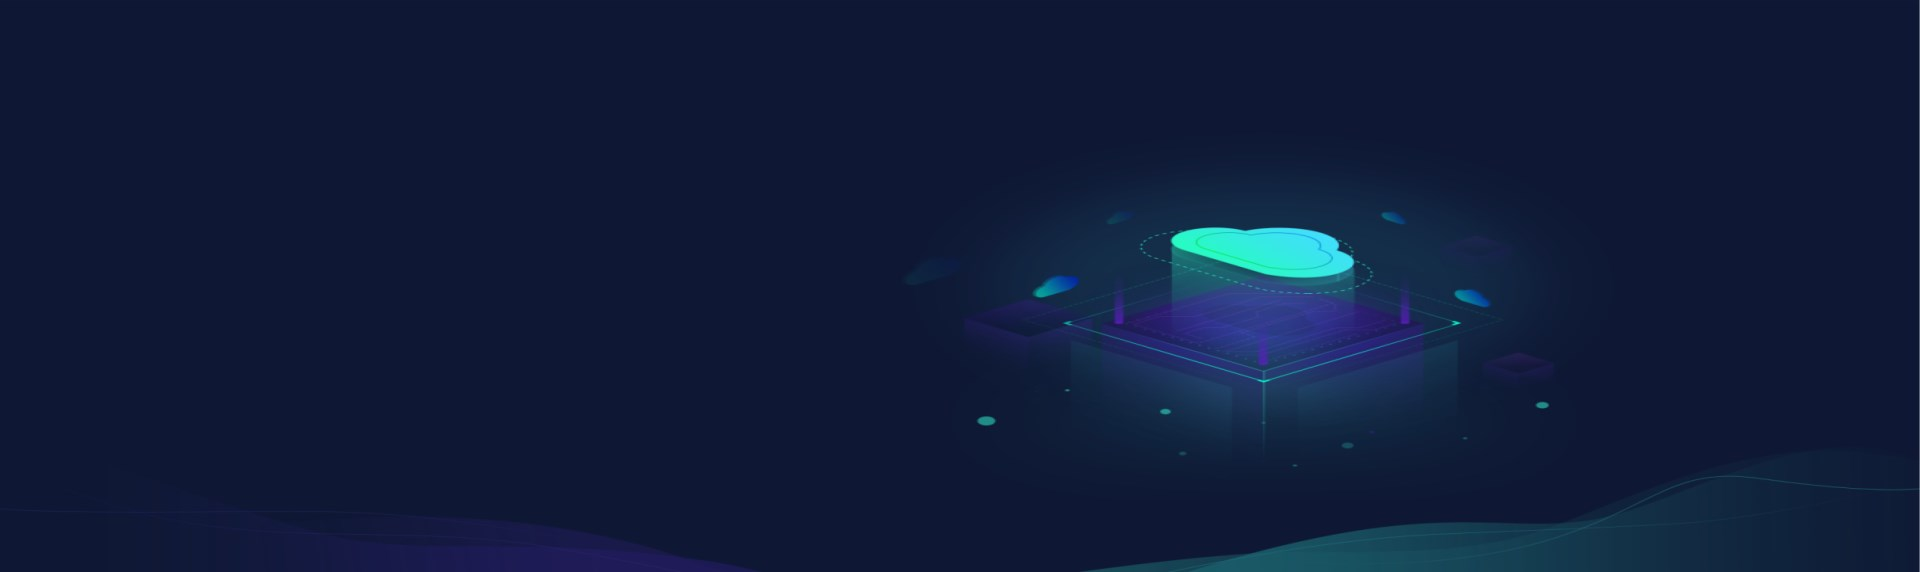
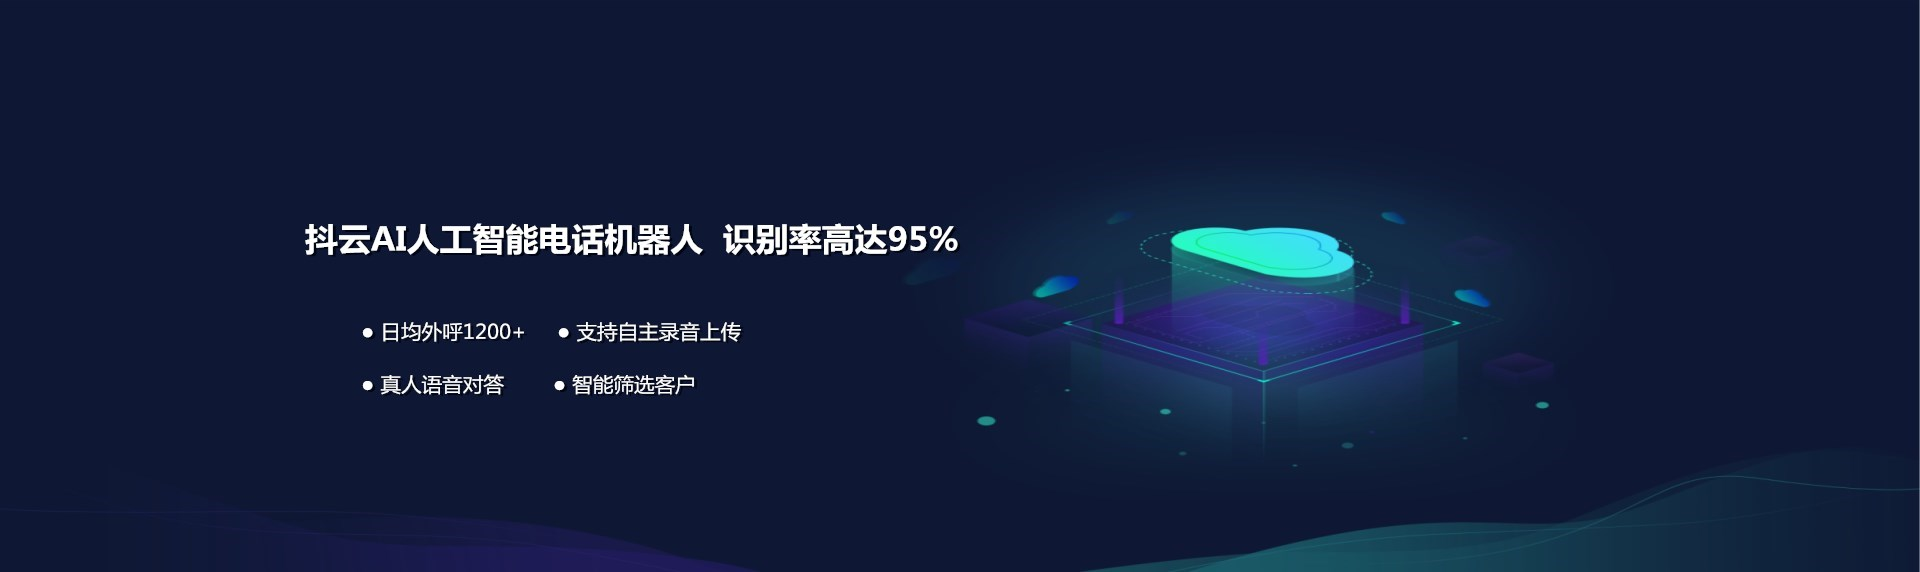
bug fix

Changed region(s): [[0.1562, 0.3864, 0.5, 0.4458], [0.1875, 0.6538, 0.375, 0.7133], [0.1875, 0.5647, 0.4062, 0.5944]]

diff --git a/application/index/view/index/index.html b/application/index/view/index/index.html
@@ -23,16 +23,13 @@
         <div class="banner-text" style="display: block;">
             <div class="slider-text" data-start_top="30" data-to_top="0" data-start_left="0" data-to_left="0"
                  style="display: block; opacity: 1; top: 0px; left: 0px;margin-left:300px;">
-                <p class="banner-text1">精准锁定大量意向客户</p>
-                <p class=" banner-text1">助力企业业绩腾飞</p>
-                <p class=" banner-text2">抖云电话机器人 识别率高达95%</p>
-                <!--<a class="banner-link-button" href="http://www.17sucai.com/preview/1160620/2018-06-11/banner/index.html#">参与公测</a>-->
+
             </div>
         </div>
         <div class="banner-text" style="display: none;">
             <div class="slider-text" data-start_top="30" data-to_top="0" data-start_left="0" data-to_left="0"
                  style="display: block; opacity: 1; top: 0px; left: 0px;">
-                <p class="banner-text1" style="margin:0 auto;">抖云科技</p>
+
             </div>
         </div>
         <div class="banner-text" style="display: none;">
@@ -188,7 +185,7 @@
 </div>
 <div class="speech">
 
-    <div id="js_speechForm" class="speech__sms">
+    <div id="js_speechForm" class="speech__sms" style="width: 80%; margin: 0 auto;">
         <p class="speech__desc">免费体验智能电话</p>
         <div style="margin:0 auto;width:300px;margin-bottom: 50px;">
             <div style="width:50px;height:1px;background-color: white;float: left;margin-top: 13px;"></div>

diff --git a/application/index/view/index/product.html b/application/index/view/index/product.html
@@ -1,11 +1,11 @@
 
 
 <div class="banner">
-    <div class="banner-content customer-case-icon animated slideInDown" style="text-align: left;padding-top: 1px;margin-left:300px">
-        <h3 style="color: #fff; margin-top: 230px; font-size: 40px; letter-spacing: 8px;">精准锁定大量意向客户</h3>
-        <h3 style="color: #fff; margin-top: 30px; font-size: 30px; letter-spacing: 8px;">助力企业业绩腾飞</h3>
-        <h3 style="color: #fff; margin-top: 20px; font-size: 20px; letter-spacing: 8px;">抖云电话机器人 识别率高达95%</h3>
-    </div>
+    <!--<div class="banner-content customer-case-icon animated slideInDown" style="text-align: left;padding-top: 1px;margin-left:300px">-->
+        <!--<h3 style="color: #fff; margin-top: 230px; font-size: 40px; letter-spacing: 8px;">精准锁定大量意向客户</h3>-->
+        <!--<h3 style="color: #fff; margin-top: 30px; font-size: 30px; letter-spacing: 8px;">助力企业业绩腾飞</h3>-->
+        <!--<h3 style="color: #fff; margin-top: 20px; font-size: 20px; letter-spacing: 8px;">抖云电话机器人 识别率高达95%</h3>-->
+    <!--</div>-->
 </div>
 
 <div class="awt-a">
